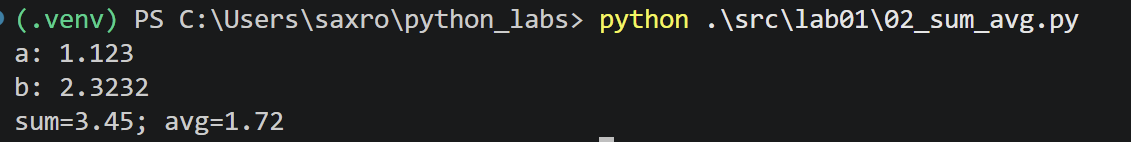
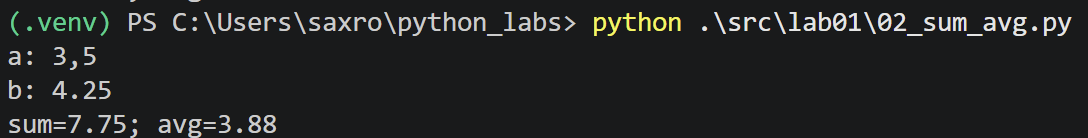
laba1

diff --git a/src/lab01/02_sum_avg.py b/src/lab01/02_sum_avg.py
@@ -1,3 +1,3 @@
-a = float(input('a: '))
-b = float(input('b: '))
+a = float(input('a: ').replace(',', '.'))
+b = float(input('b: ').replace(',', '.'))
 print(f"sum={a + b:.2f}; avg={(a + b)/2:.2f}")
